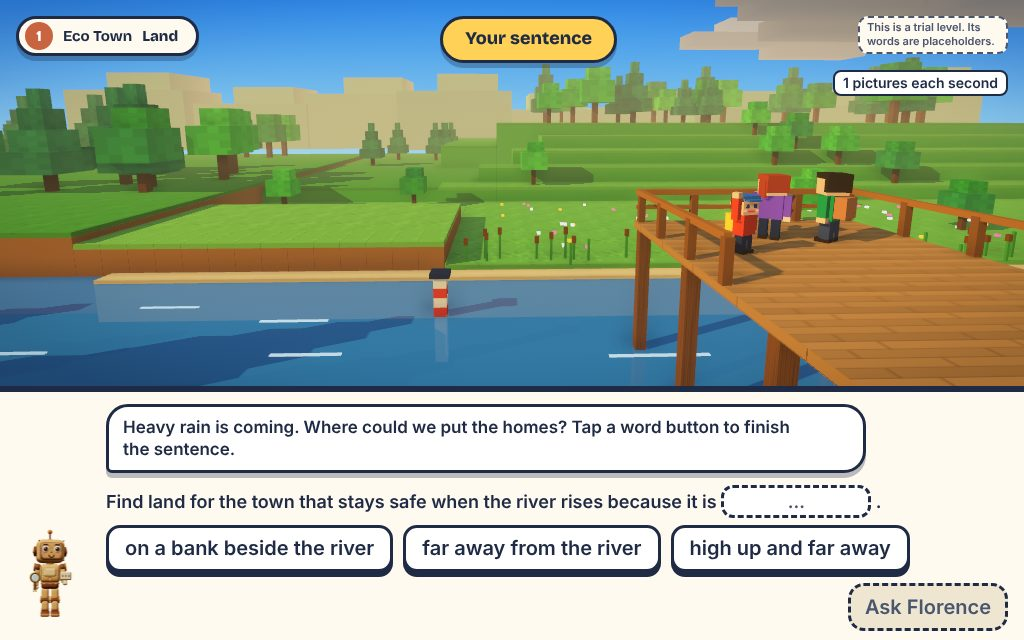
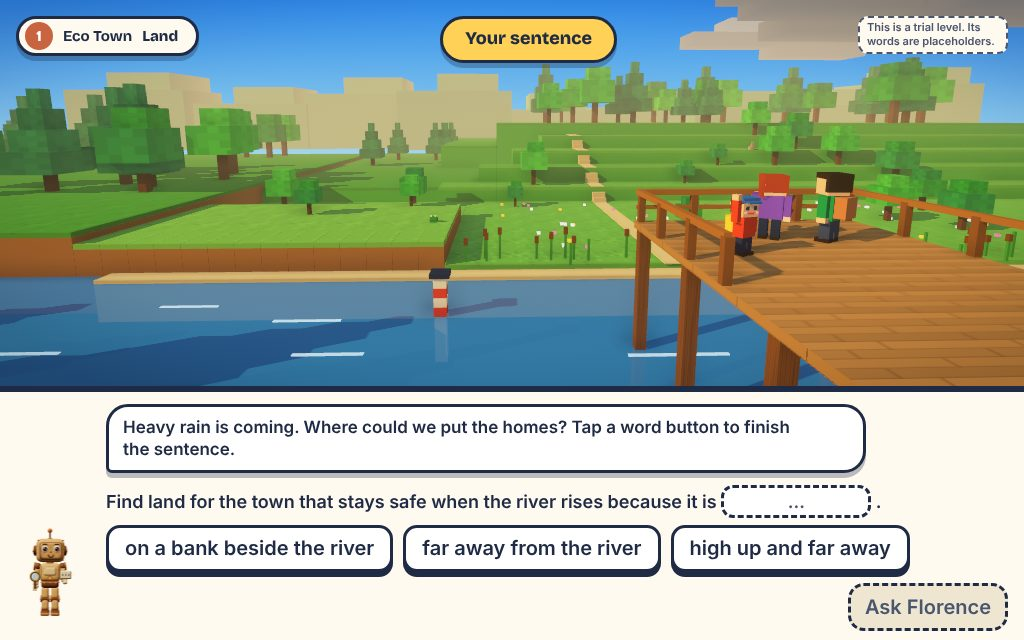
Land level: finish the round of rework, with both full paths recorded again
The people's sentences stay until the child does the next thing, and the signs beside them step aside.
The play break cameras keep the far rows clear of the title; the town and evening views are closer.
A home at the broken edge of the bank now leans, sinks and goes dark when the rain comes over the child's town.
The meter of the river rises with Florence's sentence. The first-plan sign sits at the bottom left.
New pictures of the hill path at 1440 and the meadow-then-bank path at 1024, and the notes are complete.

Claude-Session: https://claude.ai/code/session_01Ecde5Lvgabpd1qnHSP6bP6

diff --git a/docs/redesign/concepts/levels/land/level.js b/docs/redesign/concepts/levels/land/level.js
@@ -68,9 +68,9 @@ const VCARDS = { eye: [0, 9.6, 33], at: [1.5, -1.5, -14], fov: 45 };      // the
 const HUTS = [[[-16, 1.9, 1.3], [-12, 1.9, 1.3], [-8, 1.9, 1.3]], [[0, 0.5, -9], [4.2, 0.5, -9], [8.4, 0.5, -9]], [[12, 5.2, -29.5], [16.5, 5.2, -29.5], [21, 5.2, -29.5]]];
 const MID = [[-12.5, 1.9, -3.5], [5.5, 0.5, -9.5], [18.5, 5.2, -29.5]];
 // three views of each place: close to the test huts (with room under them for one result card), from above for the play break, and the town when it is built
-const LOOK = [{ eye: [-12.5, 5.6, 16], at: [-12.5, 1.6, 1.3], fov: 44 }, { eye: [4.2, 4.8, 8], at: [4.2, 0.5, -9], fov: 44 }, { eye: [16.5, 10.2, -11], at: [16.5, 6.6, -29.5], fov: 44 }];
-const PLAN = [{ eye: [-13.2, 14, 12.5], at: [-13.2, 1.2, -6.5], fov: 40 }, { eye: [6.3, 11.5, 10], at: [6.3, 0.5, -9.5], fov: 40 }, { eye: [21.4, 17, 5], at: [21.4, 2.5, -21.5], fov: 42 }];
-const TOWN = [{ eye: [-13, 7.5, 15], at: [-13, 1.4, -4], fov: 50 }, { eye: [6.3, 6.5, 8.5], at: [6.3, 0.6, -9], fov: 50 }, { eye: [21.4, 11, 0], at: [21.4, 4, -23], fov: 46 }];
+const LOOK = [{ eye: [-12.5, 5.6, 16], at: [-12.5, 2.4, 1.3], fov: 44 }, { eye: [4.2, 7, 3], at: [4.2, 0.8, -9.5], fov: 48 }, { eye: [16.5, 10.2, -11], at: [16.5, 6.6, -29.5], fov: 44 }];
+const PLAN = [{ eye: [-13.2, 13, 13], at: [-13.2, 1.3, -7.6], fov: 42 }, { eye: [6.3, 11, 11], at: [6.3, 0.5, -10.8], fov: 42 }, { eye: [21.4, 15, 6], at: [21.4, 3, -22.5], fov: 46 }];   // the farthest row and what its people say stay clear of the title of the step
+const TOWN = [{ eye: [-13, 7, 10], at: [-13, 1.4, -5], fov: 50 }, { eye: [6.3, 6.8, 3.2], at: [6.3, 0.6, -9.5], fov: 52 }, { eye: [21.4, 11, 0], at: [21.4, 4, -23], fov: 46 }];
 // Fourteen places on each kind of land, for six homes and the town green: [x, height of the ground, z, what kind of place it is].
 // The kinds can be seen in the valley itself: low (below the line of mud), puddle, edge (beside the broken bank), tree, path (beside the path to the river), view (high on the hill) and dry.
 const SITES = [
@@ -120,7 +120,7 @@ function valley() {
   for (let k = 0; k < 6; k++) pine(-20 + hash(k, 21) * 12, 2.0, -64 + hash(k, 22) * 40, 1.1);
   [[33, 3.6, -24.5], [38, 5.2, -29], [4, 2.0, -20], [44, 2.0, -20], [36, 6.8, -35], [41, 3.6, -25]].forEach(([x, y, z]) => tree(x, y, z, 0.9));
   [[-38, 17], [-30, 22], [-46, 26], [30, 18], [38, 24], [46, 19], [-22, 19]].forEach(([x, z], k) => (k % 2 ? tree : pine)(x, 4.6, z, 1.2));            // beside the lookout
-  [[24, 0.5, -6], [30, 0.5, -13], [36, 0.5, -4], [-20, 0.5, -14], [-8, 0.5, -15]].forEach(([x, y, z]) => tree(x, y, z, 0.75));                      // a few on the meadow
+  [[33, 0.5, -7.5], [40, 0.5, -12], [36, 0.5, -4], [-20, 0.5, -14], [-8, 0.5, -15]].forEach(([x, y, z]) => tree(x, y, z, 0.75));                      // a few on the meadow
   // reeds with brown heads along the water's edge, which the river covers when it rises
   for (let k = 0; k < 70; k++) { const x = -2 + hash(k, 31) * 70, z = 2.6 + hash(k, 32) * 1.6, h = 0.9 + hash(k, 33) * 0.8; B(g, x, z, 0.14, 0.14, 0.5, h, '#4f9a45', { shadow: false }); if (k % 2) B(g, x, z, 0.24, 0.24, 0.5 + h, 0.42, '#7a4a22', { shadow: false }); }
   for (let k = 0; k < 40; k++) { const x = -60 + hash(k, 41) * 120, h = 0.8 + hash(k, 43) * 0.7; B(g, x, 24.6 + hash(k, 42) * 0.5, 0.14, 0.14, -0.4, h + 0.6, '#4f9a45', { shadow: false }); }
@@ -138,8 +138,8 @@ function valley() {
   const mud = group(g); mud.visible = false; const MUD = '#7d6243';
   for (let k = 0; k < 30; k++) { const x = -1 + hash(k, 81) * 46, z = -16.5 + hash(k, 82) * 19, w = 2.5 + hash(k, 83) * 4; B(mud, x, z, w, w * 0.6, 0.5, 0.05, MUD, { op: 0.62 }); if (k % 3 === 0) B(mud, x + 1, z + 0.8, w * 0.5, w * 0.3, 0.5, 0.07, '#7fb7d6', { unlit: true, shadow: false }); }
   for (let k = 0; k < 8; k++) B(mud, -22 + hash(k, 84) * 18, -16.5 + hash(k, 85) * 7, 3 + hash(k, 86) * 3, 2, 0.5, 0.05, MUD, { op: 0.62 });
-  B(mud, 42, -17.93, 96, 0.12, 0.5, HIGH - 0.5, MUD); B(mud, -13.5, -9.07, 21.2, 0.12, 0.5, HIGH - 0.5, MUD); B(mud, -2.93, -4, 0.12, 10, 0.5, HIGH - 0.5, MUD); B(mud, -57, 4.07, 66, 0.12, -0.2, HIGH + 0.2, MUD); B(mud, 0, 24.93, 180, 0.12, -0.2, HIGH + 0.2, MUD);
-  B(mud, 42, -17.1, 96, 1.6, 0.5, 0.06, MUD, { op: 0.8 }); B(mud, -13.5, -9.8, 21, 1.4, 0.5, 0.06, MUD, { op: 0.8 });
+  B(mud, 33, -17.93, 114, 0.12, 0.5, HIGH - 0.5, MUD); B(mud, -13.5, -9.07, 21.2, 0.12, 0.5, HIGH - 0.5, MUD); B(mud, -2.93, -4, 0.12, 10, 0.5, HIGH - 0.5, MUD); B(mud, -57, 4.07, 66, 0.12, -0.2, HIGH + 0.2, MUD); B(mud, 0, 24.93, 180, 0.12, -0.2, HIGH + 0.2, MUD);
+  B(mud, 33, -17.1, 114, 1.6, 0.5, 0.06, MUD, { op: 0.8 }); B(mud, -13.5, -9.8, 21, 1.4, 0.5, 0.06, MUD, { op: 0.8 });
   for (let k = 0; k < 46; k++) { const onHill = k < 30, x = onHill ? -5 + hash(k, 91) * 50 : -23 + hash(k, 92) * 22, z = onHill ? -17.3 + hash(k, 93) * 0.9 : (k % 2 ? -9.8 - hash(k, 94) * 0.8 : -9.8), st = B(mud, x, z, 1.2 + hash(k, 95) * 1.4, 0.2, 0.52, 0.2, k % 2 ? '#8a6a45' : '#6b4f33'); st.rotation.y = (hash(k, 96) - 0.5) * 0.9; }
 
   // ---- the sky: rain clouds, and the rain --------------------------------------------------------------------------------------------
@@ -173,7 +173,8 @@ function valley() {
     q.light = (on) => { q.lit = on; wm.color.copy(on ? LIT : DARK); if (q.lm) q.lm.color.copy(on ? hot('#ffd257', 3) : DARK); };
     return q; }
   const huts = HUTS.map((three, i) => three.map((p) => { const q = build(g, p, { hut: true }); q.k = i === 2 ? 1.5 : 1; q.g.visible = false; return q; }));
-  const tags = plans.map((p, i) => { const t = plate(s, '', [MID[i][0] + (i === 0 ? -0.5 : i === 1 ? -1.5 : -2), MID[i][1] + (i === 2 ? 6.9 : i === 1 ? 3.9 : 4.6), HUTS[i][1][2]], 'pl'); t.el.innerHTML = `${p.icon}<span><b>${esc(p.lines[0])}</b><b>${esc(p.lines[1])}</b></span>`; t.hide = true; return t; });
+  // the tag of the hill stands to the right of its huts, so that it stays clear of the title of the step on a narrow screen
+  const tags = plans.map((p, i) => { const t = plate(s, '', [MID[i][0] + (i === 0 ? -0.5 : i === 1 ? -1.5 : 7), MID[i][1] + (i === 2 ? 5.6 : i === 1 ? 3.9 : 4.6), HUTS[i][1][2]], 'pl'); t.el.innerHTML = `${p.icon}<span><b>${esc(p.lines[0])}</b><b>${esc(p.lines[1])}</b></span>`; t.hide = true; return t; });
   const showTags = (on) => tags.forEach((t) => { t.hide = !on; });
   const tip = (q, a, sec = 1) => { const a0 = q.tip; q.tip = a; return tw(sec, (t) => { q.tipNow = lerp(a0, a, ease(t)); q.g.rotation.x = q.tipNow; }); };
 
@@ -208,8 +209,8 @@ function valley() {
     await toLevel(STRIPE, 2.4); showRiver(1, true); beep(300, 0.1); await wait(0.5); if (gone()) return false;
     api.step(words.testT); heavy(360, 0.65); riverSound(0.6); toWeather(0.93, 0, 1.5); await toLevel(2 * STRIPE, 2.6); showRiver(2, true); api.say([words.rain[1]]); beep(260, 0.1); if (gone()) return false;
     for (const q of huts[1]) { await wait(0.55); q.light(false); hiss(); } jump(kid, 0.45); await wait(0.6); if (gone()) return false;
-    rumble(); heavy(NR, 1); riverSound(1); toWeather(1, 0, 1.5); api.say([words.rain[2]]); toLevel(HIGH, 3.2); for (const q of cols.filter((c) => !c.r)) { fall(q); await wait(0.11); } if (gone()) return false;
-    showRiver(3, true); for (const q of cols.filter((c) => c.r && c.i >= 6 && c.i <= 9)) { fall(q); await wait(0.14); } await tip(huts[0][1], 0.3, 1.1); jump(kid, 0.45); await wait(0.6); if (gone()) return false;
+    rumble(); heavy(NR, 1); riverSound(1); toWeather(1, 0, 1.5); api.say([words.rain[2]]); showRiver(3, true); toLevel(HIGH, 3.2); for (const q of cols.filter((c) => !c.r)) { fall(q); await wait(0.11); } if (gone()) return false;
+    for (const q of cols.filter((c) => c.r && c.i >= 6 && c.i <= 9)) { fall(q); await wait(0.14); } await tip(huts[0][1], 0.3, 1.1); jump(kid, 0.45); await wait(0.6); if (gone()) return false;
     raining = 0; rainSound(0, 2.5); riverSound(0.55); api.say([words.rained]); showRiver(3); mud.visible = true; tw(3, (t) => { clouds.position.x = -110 * ease(t); }); await toWeather(0.3, 0.75, 2.6); rain.visible = false; await wait(0.8); return !gone(); };
   // The child looks closely at each place. The three buttons stay over the picture, and the card of that place lies under it
   s.look = (seen) => { noBar(); showTags(false); const el = document.createElement('div'); el.className = 'lookbar';
@@ -224,10 +225,11 @@ function valley() {
   function folk(q) { if (q.folk) g.remove(q.folk); const p = SITES[site][q.i], f = group(g, p[0], p[1], p[2]), ok = happy(q), n = q.n, zf = kindOf(q) === 'edge' ? 1.45 : 1.75, zs = kindOf(q) === 'edge' ? 0.08 : 0.3; q.folk = f;
     if (q.family) FAMILY.forEach((o, k) => fig(f, -1.3 + k * 1.15, 0, zf + (k % 2) * zs, { ...o, k: o.k * 1.1, pack: k ? undefined : '#ffd257', arms: ok ? (k === 1 ? ['down', 'up'] : ['up', 'down']) : ['down', 'down'], head: ok ? 0 : (k - 1) * 0.5, turn: (k - 1) * 0.25 }));
     else { fig(f, -1.1, 0, zf, { k: 1.3, shirt: SHIRTS[n % 6], skin: FAMILY[n % 3].skin, hair: FAMILY[(n + 1) % 3].hair, long: n % 2 === 0, arms: ok ? ['up', 'up'] : ['down', 'down'], turn: 0.2 }); if (n % 2) fig(f, 0.2, 0, zf + zs * 0.6, { k: 0.95, shirt: SHIRTS[(n + 3) % 6], skin: FAMILY[(n + 1) % 3].skin, hair: FAMILY[n % 3].hair, arms: ok ? ['up', 'down'] : ['down', 'down'], turn: -0.2 }); } }
-  let talkN = 0, talkQ = null, homeN = 0; const hush = () => { talkN++; talkQ = null; talk.hide = true; };
-  const famAt = () => { const q = homes.find((h) => h.family); famSign.hide = !q || q === talkQ; if (q) { const p = SITES[site][q.i]; famSign.pos.set(p[0], p[1] + 3.1, p[2]); } };
-  // what the people of a home say stands over the home for a few seconds. A worried sentence has a dashed edge, so that it is not told from a glad one by its words alone
-  const say = (q) => { const p = SITES[site][q.i], id = ++talkN; talk.el.textContent = saying(q); talk.el.classList.toggle('worry', !happy(q)); talk.pos.set(p[0], p[1] + 3.6, p[2]); talk.hide = false; talkQ = q; famAt(); wait(8).then(() => { if (id === talkN) { hush(); if (s.still) famAt(); } }); };
+  let talkN = 0, talkQ = null, homeN = 0; const hush = () => { talkN++; talkQ = null; talk.hide = true; if (s.lineSign && s.breakOpen) s.lineSign.hide = false; };
+  const famAt = () => { const q = homes.find((h) => h.family); famSign.hide = !q || !!talkQ;   // while someone speaks, the family's sign steps aside so that the two never overlap
+    if (q) { const p = SITES[site][q.i]; famSign.pos.set(p[0], p[1] + 3.1, p[2]); } };
+  // what the people of a home say stands over the home until the child does the next thing. A worried sentence has a dashed edge, so that it is not told from a glad one by its words alone
+  const say = (q) => { const p = SITES[site][q.i]; ++talkN; talk.el.textContent = saying(q); talk.el.classList.toggle('worry', !happy(q)); talk.pos.set(p[0], p[1] + 3.6, p[2]); talk.hide = false; talkQ = q; famAt(); if (s.lineSign) s.lineSign.hide = true; };   // the sentence stays until the child does the next thing, so that there is time to read it; the sign of the line of mud steps aside meanwhile
   function addHome(i, family) { const n = homeN++, q = build(g, SITES[site][i], { wall: WALL[(n + i) % 4], roof: family ? '#d2553a' : ROOF[1 + (n + i) % 3], door: family ? '#ffd257' : ['#3f78b5', '#c0562f', '#2e9b5a', '#7a5230'][n % 4] }); q.i = i; q.n = n; q.family = family; homes.push(q);
     q.g.scale.setScalar(0.01); tw(0.45, (t) => q.g.scale.setScalar(Math.max(0.01, back(t)))); folk(q); q.folk.scale.setScalar(0.01); tw(0.5, (t) => q.folk.scale.setScalar(Math.max(0.01, back(t)))); (happy(q) ? chime : () => beep(240, 0.2, 'sine'))(); say(q); famAt(); return q; }
   function addGreen(i) { const p = SITES[site][i], t = group(g, p[0], p[1], p[2]); B(t, 0, 0, 3.3, 3.3, 0, 0.08, '#e6d3a1'); B(t, 0, 0, 3, 3, 0, 0.16, '#58b24a', { tex: 'grass' }); B(t, -0.9, 0.7, 0.2, 0.2, 0, 4, '#f6f1e2'); blk(t, 0, 0.7, 1.7, 0.1, 2.85, 1.1, '#fff', { mat: flagM }); B(t, 0.9, -0.7, 0.3, 0.3, 0, 1, '#7a5230', { tex: 'bark' }); B(t, 0.9, -0.7, 1.5, 1.5, 0.9, 1.2, '#4fae47', { tex: 'leaf' }); B(t, 0.6, 1, 1.2, 0.36, 0.16, 0.3, '#a87645');
@@ -237,7 +239,7 @@ function valley() {
   const clearHuts = () => { showTags(false); huts.flat().forEach((q) => tw(0.5, (t) => { q.g.scale.setScalar(Math.max(0.01, (1 - ease(t)) * q.k)); if (t >= 1) q.g.visible = false; })); };
   s.playBreak = async (pick, api) => { const me = run; site = pick; noBar(); clearHuts(); api.say([words.goesDown]); glide(V0, 1.4); toWeather(0.08, 1, 3.4); riverSound(0.2, 3.5); await toLevel(0, 3.6); if (me !== run) return; brolly.visible = false; await wait(0.9); if (me !== run) return; s.still = true; await glide(PLAN[pick], 2.6); if (me !== run) return;
     const P = SITES[pick], used = new Map(), marks = P.map(([x, y, z]) => glowMarks(place(g, x, z, 2.7, 2.7, y + 0.02))), N = { home: NHOMES, green: 1 }; let tool = 'home', flag = 0, done = false, open = true;
-    const sign = plate(s, words.line, pick === 0 ? [-13.5, HIGH, -9.9] : [pick === 1 ? -4 : 21.4, HIGH, -17.2], 'line'); s.lineSign = sign; s.closeBreak = () => { open = false; marks.forEach((m) => { m.visible = false; }); };
+    const sign = plate(s, words.line, pick === 0 ? [-13.5, HIGH, -9.9] : [pick === 1 ? -10 : 21.4, HIGH, -17.2], 'line'); s.lineSign = sign; s.breakOpen = true; s.closeBreak = () => { open = false; s.breakOpen = false; marks.forEach((m) => { m.visible = false; }); };
     const tok = {}, mk = (k) => { const b = document.createElement('button'); b.onclick = () => { if (N[k] && open) { tool = k; draw(); } }; tok[k] = b; return b; }, sw = document.createElement('div');
     sw.innerHTML = `<div class="sws-h">${esc(words.flag)}</div><div class="sws">${FLAG.map((c, k) => `<button class="sw" data-c="${k}" style="background:${c}" aria-label="${esc(words.flag)} ${k + 1}"></button>`).join('')}</div>`;
     sw.onclick = (e) => { const b = e.target.closest('[data-c]'); if (!b) return; flag = +b.dataset.c; flagM.color.set(FLAG[flag]); beep(700, 0.06); draw(); };
@@ -252,7 +254,7 @@ function valley() {
     // An empty place is tapped on the yellow square itself, which is flat, so that it never catches a tap meant for a place behind it. A place with a home on it is tapped on the home
     const put = (i) => { const [x, y, z] = P[i];
       if (tool === 'home') { N.home--; const q = addHome(i, !homes.some((h) => h.family)); used.set(i, q); q.pegs = group(pegs); for (const [dx, dz] of [[-1.45, -1.4], [1.45, -1.4], [-1.45, 1.4], [1.45, 1.4]]) B(q.pegs, x + dx, z + dz, 0.16, 0.16, y, 0.5, '#e0503a', { raw: true }); }
-      else { N.green--; used.set(i, 'green'); addGreen(i); chime(); } draw(); };
+      else { N.green--; used.set(i, 'green'); hush(); famAt(); addGreen(i); chime(); } draw(); };
     P.forEach(([x, y, z], i) => { hitBox(s, g, x, y, z, 3.3, 0.35, 3.3, () => open && !used.has(i) && N[tool] > 0, () => put(i)); hitBox(s, g, x, y, z, 2.9, 2.9, 2.6, () => open && used.has(i) && used.get(i) !== 'green', () => takeBack(used.get(i))); });
     s.spot = (name, i) => [P[i][0], P[i][1] + 0.3, P[i][2]]; };
 
@@ -261,26 +263,28 @@ function valley() {
   // Florence's sentence about the town. It follows where the child put the homes: homes at the foot of the hill get wet, and homes that stand back from the edge of the bank do not tip
   s.afterFor = (i) => (i === 2 && homes.some(wet) ? words.afterHillLow : i === 0 && homes.length && !homes.some((q) => kindOf(q) === 'edge' || wet(q)) ? words.afterBankBack : AFTER[i]);
   function settle() { if (s.closeBreak) s.closeBreak(); if (s.lineSign) s.lineSign.hide = true; hush(); famSign.hide = true; s.still = false; kid.visible = mum.visible = dad.visible = false; brolly.visible = false; homes.forEach((q) => { q.light(true); q.folk.visible = true; }); }
-  // s.peaks and s.passed tell the recording script how many storms have reached their highest point and how many have passed
-  s.peaks = 0; s.passed = 0;
+  // s.peaks and s.passed tell the recording script how many storms have reached their highest point and how many have passed.
+  // s.hold is set only by the recording script: the storm then stays at its highest point until the picture is taken, because the recording machine can be very slow
+  s.peaks = 0; s.passed = 0; s.hold = false;
   // the storm over the child's own town. Everyone goes indoors first. The lights go out in every home that the water reaches, and a home at the edge of the bank tips
   async function storm(pick, off) { clouds.position.x = 60; rumble(); await toWeather(0.9, 0.2, 1.2); if (off()) return; homes.forEach((q) => { q.folk.visible = false; }); famSign.hide = true; rain.visible = true; rain.count = NR; raining = 1; rainSound(0.9, 0.8); riverSound(0.9, 2); toLevel(HIGH, 3.6); await wait(2.2); if (off()) return;
     for (const q of homes.filter(wet)) { q.light(false); hiss(); await wait(0.15); if (off()) return; } await wait(1.2); if (off()) return;
-    if (pick === 0) { for (const q of cols.filter((c) => !c.gone && c.r)) { fall(q); await wait(0.12); } if (off()) return; for (const q of homes.filter((h) => kindOf(h) === 'edge')) tip(q, 0.26, 0.9); await wait(1); if (off()) return; }
-    s.peaks++; await wait(3); if (off()) return; raining = 0; rainSound(0, 2); riverSound(0.5); tw(2, (t) => { clouds.position.x = 60 - 170 * ease(t); }); await toWeather(0.2, 0.9, 1.8); if (off()) return; rain.visible = false; homes.filter((q) => !wet(q) && !q.tip).forEach((q) => { q.folk.visible = true; }); famAt(); s.passed++; }
+    if (pick === 0) { for (const q of cols.filter((c) => !c.gone && c.r)) { fall(q); await wait(0.12); } if (off()) return; for (const q of homes.filter((h) => kindOf(h) === 'edge')) { tip(q, 0.3, 0.9); thud(); wait(0.5).then(() => { if (!off()) { q.light(false); hiss(); } }); } await wait(1.2); if (off()) return; }
+    s.peaks++; await wait(3); while (s.hold && !off()) await wait(0.2); if (off()) return; raining = 0; rainSound(0, 2); riverSound(0.5); tw(2, (t) => { clouds.position.x = 60 - 170 * ease(t); }); await toWeather(0.2, 0.9, 1.8); if (off()) return; rain.visible = false; homes.filter((q) => !wet(q) && !q.tip).forEach((q) => { q.folk.visible = true; }); famAt(); s.passed++; }
   let swapN = 0;
   s.town = async (pick) => { const id = ++swapN, me = run, off = () => id !== swapN || me !== run; settle(); toWeather(0.05, 1, 1.5); await glide(TOWN[pick], 2.6); if (off()) return; famAt(); await wait(1.6); if (off()) return; await storm(pick, off); if (!off()) chime(); };
   // "Try another plan": the same homes stand on the other land, and the rain falls on them
   s.swap = (pick) => { const id = ++swapN, me = run, off = () => id !== swapN || me !== run; moveTo(pick); settle(); setLevel(0); raining = 0; rain.visible = false; glide(TOWN[pick], 1.4); storm(pick, off); };
   // the river goes back down, and the people come out again
-  const calm = (sec) => { swapN++; raining = 0; rain.visible = false; rainSound(0, 1); riverSound(0.2, 2); toLevel(0, sec); toWeather(0.05, 1, sec); homes.forEach((q) => { q.folk.visible = true; q.light(true); }); };
+  const calm = (sec) => { swapN++; raining = 0; rain.visible = false; rainSound(0, 1); riverSound(0.2, 2); toLevel(0, sec); toWeather(0.05, 1, sec); homes.forEach((q) => { q.folk.visible = !q.tip; q.light(!q.tip); }); };   // a home that leans at the broken edge stays empty and dark
 
   // ---- the recap: a tap on the place that stayed dry. Any answer goes on ----------------------------------------------------------------
   s.recap = (answer) => { s.noPets = true; famSign.hide = true; calm(1.4); glide(V0, 1.6); let open = true; const signs = [];
     s.spot = (name, i) => [MID[i][0], MID[i][1] + 1, MID[i][2]];
     MID.forEach(([x, y, z], i) => { const go = () => { if (!open) return; open = false; for (const q of signs) q.hide = true; beep(i === 2 ? 880 : 300, 0.15); if (i === 2) chime(); answer(i === 2); }, pl = plate(s, words.here, [x, y + (i === 2 ? 6 : i === 1 ? 2.8 : 5), z], 'tap'); signs.push(pl); pl.el.onclick = go;
       hitBox(s, g, x, y - 1, z, i === 2 ? 30 : 22, 7, i === 2 ? 16 : 13, () => open, go); }); };
-  s.evening = () => { calm(2); famAt(); const v = TOWN[site]; glide({ eye: [v.eye[0] + 2.5, v.eye[1] - 1.2, v.eye[2] - 2.5], at: v.at, fov: v.fov - 6 }, 4); };
+  const EVE = [{ eye: [-11, 6.2, 10.5], at: [-13, 1.4, -5], fov: 46 }, { eye: [8.8, 5.6, 6.5], at: [6.3, 0.6, -9], fov: 46 }, { eye: [23.9, 9.8, -2.5], at: [21.4, 4, -23], fov: 40 }];   // a little closer than the town, from one side
+  s.evening = () => { calm(2); famAt(); glide(EVE[site], 4); };
 
   // ---- every picture ------------------------------------------------------------------------------------------------------------------------
   s.tick = (t, dt) => {
@@ -289,7 +293,8 @@ function valley() {
     if (kid.visible) { mum.head.rotation.y = 0.5 + Math.sin(t * 0.6) * 0.25; dad.head.rotation.y = -0.4 + Math.sin(t * 0.5 + 1) * 0.25; }
     for (const three of huts) for (const q of three) if (q.lit && q.lm) q.lm.color.copy(hot('#ffd257', 2.7 + Math.sin(t * 7 + q.g.position.x) * 0.35));
     for (const q of huts.flat()) q.g.position.y = q.baseY - q.tipNow * 1.1;                        // a hut that tips also sinks a little
-    for (const q of homes) { q.g.position.y = SITES[site][q.i][1] - q.tipNow * 1.1; if (q.folk.visible) q.folk.children.forEach((f, k) => { f.position.y = Math.abs(Math.sin(t * 2.2 + k + q.i)) * (happy(q) ? 0.09 : 0.012); }); }
+    // a home at the broken edge leans towards the river and to one side, and sinks, so that it can be seen from the front
+    for (const q of homes) { q.g.position.y = SITES[site][q.i][1] - q.tipNow * 2.4; q.g.rotation.z = q.tipNow * (q.i % 2 ? 0.7 : -0.7); if (q.folk.visible) q.folk.children.forEach((f, k) => { f.position.y = Math.abs(Math.sin(t * 2.2 + k + q.i)) * (happy(q) ? 0.09 : 0.012); }); }
     pets.forEach((q, k) => { q.m.position.y = Math.max(q.y, k === 1 ? level - 0.12 : -9) + q.up; }); duck.position.x = 19 + Math.sin(t * 0.4) * 1.6;
     far.position.x = Math.sin(t * 0.05) * 6; };
   return s; }

diff --git a/docs/redesign/concepts/levels/land/index.html b/docs/redesign/concepts/levels/land/index.html
@@ -20,7 +20,9 @@
   /* what the people at a door say. A worried sentence has a dashed edge and a small mark in front of it, so that it is not told from a glad one by colour */
   .plate.talk { background: #fff; font: 700 16px/1.15 var(--ui-body); border-radius: 14px 14px 14px 2px; z-index: 3; }
   .plate.talk.worry { border-style: dashed; background: var(--ui-paper-dim, #efe6d2); } .plate.talk.worry::before { content: "!"; display: inline-block; width: 18px; height: 18px; margin-right: 6px; border-radius: 50%; background: var(--ui-ink); color: #fff; font: 800 14px/18px var(--ui-display); text-align: center; }
-  @media (max-width: 1100px) { .lookbar { top: 62px; gap: 6px; } .lookchip { font-size: 15px; min-height: 40px; } .plate.talk { font-size: 14px; } }
+  /* the kit's sign that keeps the first result in view sits at the bottom left of the picture, over the river, so that it does not hide the homes */
+  #first.first { top: auto; bottom: 16px; }
+  @media (max-width: 1100px) { .lookbar { top: 68px; gap: 6px; } .lookchip { font-size: 15px; min-height: 40px; } .plate.talk { font-size: 14px; } }
 </style>
 </head>
 <body>

diff --git a/docs/redesign/concepts/levels/land/NOTES.md b/docs/redesign/concepts/levels/land/NOTES.md
@@ -35,16 +35,55 @@ The first build's designer judged the play break thin, and I agreed. In the firs
 - Nobody stands in or near flood water. The family watches the test from the lookout under an umbrella, and during the second rain every person is indoors.
 - **The word button still does not change the result.** The child's word is drawn in the valley as a yellow outline, and Florence repeats it, but she shows the same three places whichever word is chosen. The kit's README says that the child's words must change the result. Whether Land should do so is a question the owner has not answered, so I kept the present behaviour.
 
+## Finishing the round (a second designer, later on 24 November 2026)
+
+The designer who began this round was stopped while it waited for its recordings, so the round was finished by a second designer. I kept everything the first designer changed, because it all worked when I ran it, and I fixed what the new pictures showed.
+
+- **The people's sentences can now be read.** In the first designer's version, what the people at a door say disappeared after eight seconds. It now stays until the child places or takes back the next home, so a slow reader has time for it. Placing the town green clears the last sentence, so that the flag is seen.
+- **The far row of the hill and of the bank is no longer under the title.** The camera of the play break on the hill and on the bank now sits a little lower and further back. In the first pictures the family's home on the top of the hill stood right under the title "Mark out the town", and the sign "Your family" was hidden behind it.
+- **The town on the meadow and on the bank is seen from closer.** On the meadow the reeds at the water's edge filled the bottom of the picture, so the camera now stands behind them. On the bank, half of the picture was empty river, so the camera now stands nearer to the homes.
+- **The small sign that keeps the first result in view** (the kit's sign, during "Try another plan") now sits at the bottom left of the picture, over the river, and not at the top left, where it hid two homes of the bank. This is done in this level's own `index.html`; the kit was not changed.
+- **The tag of the far hill** now stands to the right of its test huts. On a screen 1024 wide it overlapped the title of the step.
+- **The close look at the meadow** is taken from behind the reeds, which had filled the front of the picture, and from high enough that the three buttons of the look step do not cover the roofs.
+- **On the meadow, the camera of the play break is a little lower**, so that what the people of the back row say does not slide under the title, and the sign "The river came up to here" stands further left, clear of the homes. The line of mud along the foot of the hill now runs that far left too.
+- **The meter of the river rises with Florence's sentence.** It used to say "over the meadow" while Florence already said that the river was pulling at the bank.
+- **While someone speaks, the signs "Your family" and "The river came up to here" step aside**, because they overlapped what the people said. They come back when the child does the next thing.
+- **The evening picture has its own view for each kind of land.** On the meadow it had come so close that faces were cut in half.
+- **A home at the broken edge of the bank can now be seen to fail.** When the rain comes over the child's own town on the bank, a home at the broken edge used to tilt so slightly, straight towards the camera, that it looked unharmed. It now leans to one side, sinks, and its lights go out, and it stays empty and dark after the rain.
+- **Two trees on the meadow were moved**, because they stood in front of the camera in the town on the hill and in the evening picture.
+- **The recordings.** The recording script can now hold the storm over the child's town at its highest point until the picture is taken (`s.hold`, used only by `play.mjs`). The machine drew less than one picture each second, and without this the picture "town-rain" showed the town after the rain had already gone. The small counter of pictures each second is now hidden in the pictures.
+
 ## What was run, and what was not
 
 The recording machine was shared by about twelve recordings at once during this round and drew less than one picture each second. Opening the page often took longer than the thirty seconds that the kit's helper allows. `record.mjs` in this folder is a copy of the kit's helper that allows ten minutes; the kit was not changed. The recording script now waits for Florence's sentences and for the state of the storm, and not for the clock.
 
-RESULTS_PLACEHOLDER
+The level was run in the pre-installed Playwright Chromium with the lighting effects on, on two full paths, and every picture was looked at.
+
+- `pictures/hill-1440/` (1440 by 810): the child asks for land that is high up and far away, tests, looks at each place, chooses the far hill, marks out the family's home and five neighbours (taking one home back and putting it somewhere better), places the town green, changes the flag colour, sees the rain over the town, answers the recap and reaches the evening picture. It has 29 pictures, all looked at.
+- `pictures/meadow-then-bank-1024/` (1024 by 640): the child asks for land that is far away from the river, chooses the far meadow, marks out the town there, sees the water reach every home, presses "Try another plan", picks the bank beside the river and sees the homes at the broken edge lean and go dark, then goes back to the first plan and finishes. It has 34 pictures, all looked at.
+- `framed.mjs` opened the level inside a frame with `?next=Go on`. The label said "These words are placeholders.", the chip said 1, and the last picture had "Play again" and "Go on". Its pictures were looked at and are not kept.
+
+The recording machine was shared with other designers' recordings. For most of the session it drew less than one picture each second; for the final recordings it drew one or two each second, so the names of a few test pictures (for example "test-clouds") show a slightly later moment than the name says. The final runs estimated about 12 minutes for a typical child who tries another plan and 9 to 11 minutes for a fast reader, and these times are only rough because the animations still ran slowly.
+
+Not run: "Ask again" after the test (it was run by the first designer of this round, not by me), the hill and the bank as first choices at 1024, the meadow and the bank as first choices at 1440, tapping the three small animals, the sound, and any real touch or mouse use by a person. The level was never played by a child.
 
 ## What still stands in the way
 
-STANDS_PLACEHOLDER
+- **The word button does not change the result.** The child's word is drawn in the valley and Florence repeats it, but the three places and their results are the same whichever word is chosen. The kit's README and Astra's accepted feedback say that the child's request must change the result. This needs the owner's answer; one simple way would be for Florence to show her three places nearest to the kind of land the child asked for, so that "high up and far away" gives a higher hill than "far away from the river".
+- **The far hill is still seen from the lookout only from a distance.** The close look at the hill shows the dry huts but not the river below them, so "These homes stayed dry" rests on the huts' lights more than on seeing the water stop short.
+- **The meadow gives the child no good place.** Every place on the meadow is below the line of mud, so the play break there has differences of comfort (a tree, the path, a puddle) but no safe choice. This is true to the plan, but a child who chose the meadow has less to decide.
+- **The second rain over the child's own town has no button.** It is part of showing the plan in the town. If the owner reads "test once" strictly, it can be taken out of `s.town` in one line.
+- **What the people say can cover a yellow place behind it** until the child does the next thing. The child can still tap the place, or tap any other place first.
+- **The level has not been played with a mouse by a person,** and no child has played it.
 
 ## The owner's four questions
 
-ANSWERS_PLACEHOLDER
+These are my answers after finishing the round. They are my own judgement, and I am the second designer of this round.
+
+**Is the level long enough?** Yes. On the recording machine, once it was running at a normal pace, the script estimated about twelve and a half minutes for a typical child who also tries another plan, and about nine to eleven minutes for a fast reader who does not. That is the right length for one of six levels in an hour. The play break is now the longest part, which is right, because it is where the child decides most.
+
+**Does it need more activities or scenes?** It does not need more scenes. It needs one change of substance: the word the child chooses should change what Florence shows, and that waits for the owner. After that, the best addition would be small: letting the child see the river stop below the hill in the close look, so that "stayed dry" is seen and not only told.
+
+**Am I proud of the work?** Mostly, yes. The storm is clear at a glance, the play break is now a real decision with people who answer back, and the child's own town meets the rain, so a careless layout shows. I am not fully proud while the child's word does nothing to the result, and while a child who chooses the meadow has no good place left to choose in the play break.
+
+**Am I impressed by the experience a child gets?** I am impressed by the moment when the river rises, the lanterns on the meadow go out and the bank falls away, and by the moment the homes at the broken edge lean over in the child's own town. I am less impressed by the long look from the lookout at a far hill, and I have only seen the level through recordings, never through a child's hands.
